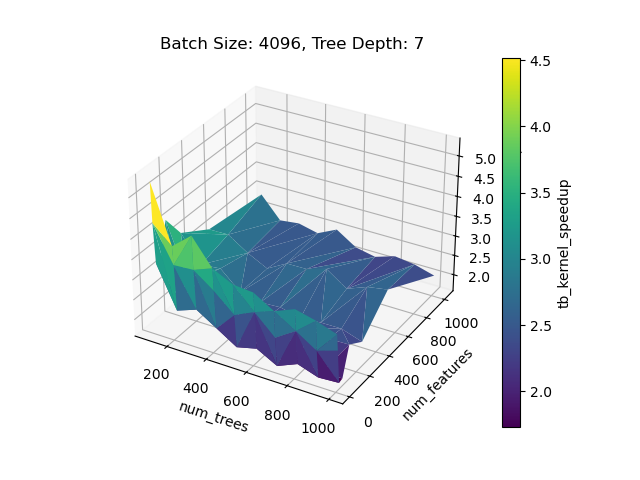
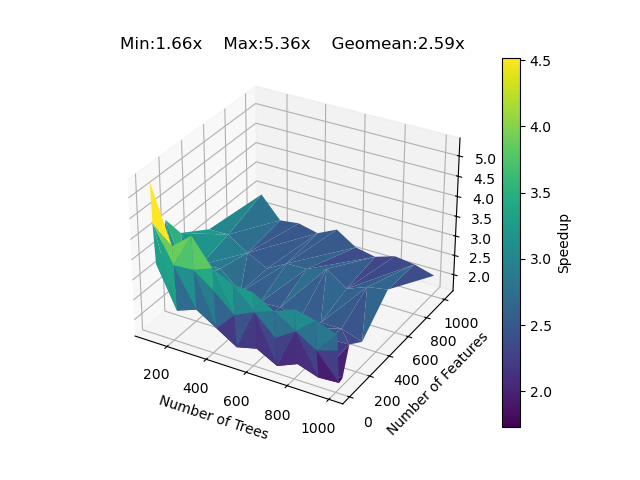
Add new graphs for random model speedups

diff --git a/results/python/analyze_random_model_benchmark_results.py b/results/python/analyze_random_model_benchmark_results.py
@@ -1,9 +1,9 @@
 import os
 
-batch_size = 4096
+batch_size = 512
 # file_path = "/home/ashwin/mlir-build/llvm-project/mlir/examples/treebeard/results/thedeep/gpu/random_models/20240320/random_cmp_output_mp.txt"
-# file_path = "/home/ashwin/mlir-build/llvm-project/mlir/examples/treebeard/results/thedeep/gpu/random_models/20240320/random_cmp_output_mp_b512.txt"
-file_path = "/home/ashwin/mlir-build/llvm-project/mlir/examples/treebeard/results/thedeep/gpu/random_models/20240320/random_cmp_output_mp_b4k_ft500.txt"
+file_path = "/home/ashwin/mlir-build/llvm-project/mlir/examples/treebeard/results/thedeep/gpu/random_models/20240320/random_cmp_output_mp_b512.txt"
+# file_path = "/home/ashwin/mlir-build/llvm-project/mlir/examples/treebeard/results/thedeep/gpu/random_models/20240320/random_cmp_output_mp_b4k_ft500.txt"
 
 # read the file line by line and filter out lines that don't start with "/"
 with open(file_path, "r") as file:
@@ -42,20 +42,20 @@ def get_tree_depth(model_path):
 
 df["tree_depth"] = df["model_path"].apply(get_tree_depth)
 
-print(df.shape)
+# print(df.shape)
 # print the min, max and geomean of the tb_kernel_speedup column
-print(df["tb_kernel_speedup"].min())
-print(df["tb_kernel_speedup"].max())
+# print(df["tb_kernel_speedup"].min())
+# print(df["tb_kernel_speedup"].max())
 # print the geometric mean of the tb_kernel_speedup column
 # compute geomean using scipy.stats.gmean
 import scipy.stats as stats
-print(stats.gmean(df["tb_kernel_speedup"]))
+# print(stats.gmean(df["tb_kernel_speedup"]))
 #print(df["tb_kernel_speedup"].prod() ** (1.0 / df.shape[0]))
 
 for depth in range(6, 9):
     # get entries with tree_depth == depth
     df_depth = df[df["tree_depth"] == depth]
-    print(df_depth.shape)
+    # print(df_depth.shape)
 
     # plot a 3-d graph of num_trees, num_features and tb_kernel_speedup
     import matplotlib.pyplot as plt
@@ -68,11 +68,14 @@ for depth in range(6, 9):
     # ax.scatter3D(df_depth["num_trees"], df_depth["num_features"], df_depth["tb_kernel_speedup"], c='red')
     surf = ax.plot_trisurf(df_depth["num_trees"], df_depth["num_features"], df_depth["tb_kernel_speedup"], cmap='viridis')
 
-    ax.set_xlabel('num_trees')
-    ax.set_ylabel('num_features')
-    ax.set_zlabel('tb_kernel_speedup')
-
-    plt.title(f"Batch Size: {batch_size}, Tree Depth: {depth}")
-    plt.colorbar(surf, label='tb_kernel_speedup')
-    plt.savefig(f'kernel_speedup_b{batch_size}_depth{depth}_ft500.png')
+    ax.set_xlabel('Number of Trees')
+    ax.set_ylabel('Number of Features')
+    ax.set_zlabel('Speedup')
+    min_speedup = df_depth["tb_kernel_speedup"].min()
+    max_speedup = df_depth["tb_kernel_speedup"].max()
+    geomean_speedup = stats.gmean(df_depth["tb_kernel_speedup"])
+    # limit the speedup values to 1 decimal digit
+    plt.title(f"Min:{min_speedup:.2f}x    Max:{max_speedup:.2f}x    Geomean:{geomean_speedup:.2f}x")
+    plt.colorbar(surf, label='Speedup')
+    plt.savefig(f'kernel_speedup_b{batch_size}_depth{depth}.png')
     # plt.show()
